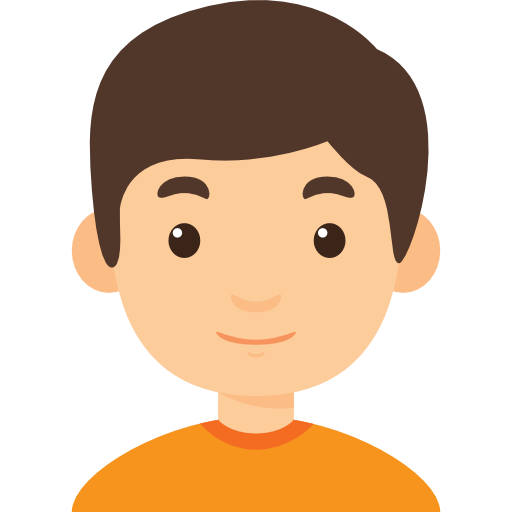
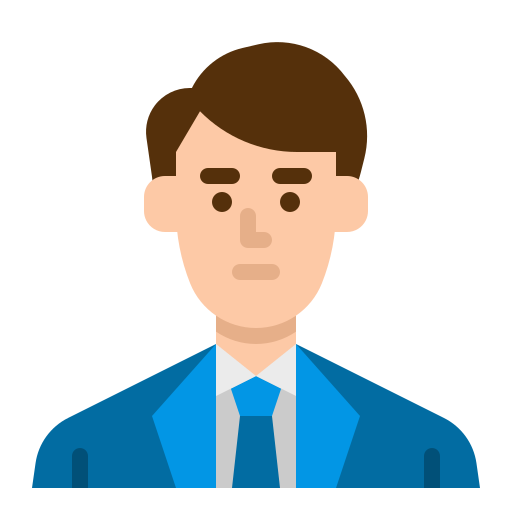
StartingProfileAndExpo-image-picker

diff --git a/src/navigation/AppNavigator.js b/src/navigation/AppNavigator.js
@@ -8,6 +8,7 @@ import {
     Favs,
     Cart
 } from '../screens';
+
 import SettingsScreen from '../screens/SettingsScreen';
 import StackNav from './StackNav';
 import { createBottomTabNavigator } from '@react-navigation/bottom-tabs';
@@ -46,59 +47,6 @@ const AppNavigator = () => {
                 }
             >
                 <Tab.Screen
-                    name='Main'
-                    component={StackNav}
-                    options={{
-                        tabBarIcon: ({ focused }) => {
-                            return (
-                                <View
-                                    style={{
-                                        alignItems: 'center',
-                                        justifyContent: 'center',
-                                    }}
-                                >
-                                    <MaterialIcons
-                                        name="local-restaurant"
-                                        size={30}
-                                        color={
-                                            focused ? '#F9813A' : '#E5E5E5'
-                                        }
-                                    />
-                                </View>
-                            )
-
-                        }
-                    }}
-                />
-
-                <Tab.Screen
-                    name='Cart'
-                    component={Cart}
-                    options={{
-                        tabBarIcon: ({ focused }) => {
-                            return (
-                                <View
-                                    style={{
-                                        alignItems: 'center',
-                                        justifyContent: 'center',
-                                    }}
-                                >
-                                    <Feather
-                                        name="shopping-bag"
-                                        size={26}
-                                        color={
-                                            focused ? '#F9813A' : '#E5E5E5'
-                                        }
-                                    />
-
-                                </View>
-                            )
-
-                        }
-                    }}
-                />
-
-                <Tab.Screen
                     name='Settings'
                     component={SettingsScreen}
                     options={{
@@ -113,6 +61,32 @@ const AppNavigator = () => {
                                     <MaterialIcons
                                         name="settings"
                                         size={26}
+                                        color={
+                                            focused ? '#F9813A' : '#E5E5E5'
+                                        }
+                                    />
+                                </View>
+                            )
+
+                        }
+                    }}
+                />
+
+                <Tab.Screen
+                    name='Main'
+                    component={StackNav}
+                    options={{
+                        tabBarIcon: ({ focused }) => {
+                            return (
+                                <View
+                                    style={{
+                                        alignItems: 'center',
+                                        justifyContent: 'center',
+                                    }}
+                                >
+                                    <MaterialIcons
+                                        name="local-restaurant"
+                                        size={30}
                                         color={
                                             focused ? '#F9813A' : '#E5E5E5'
                                         }
@@ -151,7 +125,6 @@ const AppNavigator = () => {
                 />
             </Tab.Navigator>
         </NavigationContainer>
-
     );
 };
 

diff --git a/src/screens/Profile.js b/src/screens/Profile.js
@@ -1,19 +1,126 @@
-import { StyleSheet, Text, View } from 'react-native'
-import React from 'react'
+import {
+    StyleSheet,
+    Text,
+    View,
+    Platform,
+    SafeAreaView,
+    TouchableOpacity,
+    ScrollView,
+    Image
+} from 'react-native'
 
-const Profile = () => {
+import React from 'react'
+import { MaterialIcons } from "@expo/vector-icons";
+import { useState } from 'react';
+import avatarsImg from '../constants/avatars';
+
+
+const Profile = ({ navigation }) => {
+
+    const [selectedImage, setSelectedImage] = useState(avatarsImg[4]);
+
+    const handleImageSelection = () => {
+        //let result = ImagePicker
+    }
+
+    const returnToHome = () => {
+        navigation.navigate('Restaurant')
+    };
+
     return (
-        <View>
-            <Text
-                style={{
-                    marginTop: '100%',
-                    marginLeft: '45.5%'
-                }}
-            >Profile</Text>
-        </View>
+        <SafeAreaView
+            style={styles.androidSafeArea}
+        >
+            <View
+                style={styles.headerContain}
+            >
+                <TouchableOpacity
+                    style={styles.backBtn}
+                    onPress={() => navigation.goBack(returnToHome())}
+                >
+                    <MaterialIcons
+                        name="keyboard-backspace"
+                        size={30}
+                        color="#000"
+                        style={{
+                            marginLeft: 10.5,
+                            marginTop: 10,
+                        }}
+                    />
+                </TouchableOpacity>
+                <Text style={styles.headerTitle}>Profile</Text>
+            </View>
+            <ScrollView>
+                <View
+                    style={{
+                        alignItems: 'center',
+                        marginVertical: 22
+                    }}
+                >
+                    <TouchableOpacity
+                        onPress={handleImageSelection}
+                    >
+                        <Image
+                            source={selectedImage}
+                            style={styles.avatarImage}
+                        />
+                        <View
+                           style= {styles.imageBtn}
+                        >
+                            <MaterialIcons
+                              name = 'photo-camera'
+                              size={32}
+                              color={'orange'}
+                            />
+                        </View>
+                    </TouchableOpacity>
+                </View>
+            </ScrollView>
+        </SafeAreaView>
     )
 }
 
 export default Profile
 
-const styles = StyleSheet.create({})
+const styles = StyleSheet.create({
+    androidSafeArea: {
+        flex: 1,
+        backgroundColor: "white",
+        paddingTop: Platform.OS == "android" ? 40 : 0,
+        haderButton: {
+            width: 50,
+            paddingLeft: 40,
+            justifyContent: "center",
+        },
+    },
+    headerContain: {
+        marginHorizontal: 12,
+        flexDirection: 'row',
+        justifyContent: 'center'
+    },
+    backBtn: {
+        marginTop: -7.5,
+        position: 'absolute',
+        left: 0
+    },
+    headerTitle: {
+        marginBottom: 12,
+        fontSize: 23,
+        fontWeight: 'bold',
+        justifyContent: 'center',
+        alignItems: 'center'
+    },
+    avatarImage: {
+        height: 170,
+        width: 170,
+        borderRadius: 85,
+        borderWidth: 2,
+        borderColor: 'orange'
+    },
+    imageBtn : {
+        position: 'absolute',
+        bottom: 0,
+        right: 10,
+        zIndex: 9999
+    }
+})

diff --git a/src/screens/SettingsScreen.js b/src/screens/SettingsScreen.js
@@ -63,7 +63,7 @@ const SettingsScreen = ({ navigation }) => {
   }
 
   const logout = () => {
-
+    console.log('Logout');
   }
 
   {/** Account Items */ }
@@ -83,11 +83,16 @@ const SettingsScreen = ({ navigation }) => {
     { icon: 'info-outline', text: 'Terms and Policies', action: navigateToTermsAndPolicies },
   ];
 
+
+  {/**list cache Items */ }
+
   const listCacheAndPhoneItems = [
     { icon: 'delete-outline', text: 'Free Space', action: navigateToFreeSpace },
     { icon: 'save-alt', text: 'Data Saver', action: navigateToDateServer },
 
   ];
+
+  {/** List Actions Item  */ }
 
   const listActionItems = [
 
@@ -96,7 +101,6 @@ const SettingsScreen = ({ navigation }) => {
     { icon: 'info-outline', text: 'Log Out', action: logout },
 
   ]
-
 
   {/**render header */ }
 
@@ -135,7 +139,9 @@ const SettingsScreen = ({ navigation }) => {
               backgroundColor: '#E5E5E5'
             }}
           >
+
             {/**render list Account Items */}
+
             {
               listAccountItems.map((item, index) => (
                 <React.Fragment
@@ -171,10 +177,12 @@ const SettingsScreen = ({ navigation }) => {
           <View
             style={{
               borderRadius: 12,
-              backgroundColor: '#E5E5E5'
+              backgroundColor:  '#E5E5E5'
             }}
           >
+
             {/**render list Support Items */}
+
             {
               listSupportItems.map((item, index) => (
                 <React.Fragment
@@ -214,6 +222,7 @@ const SettingsScreen = ({ navigation }) => {
             }}
           >
             {/**render list Cache Items */}
+
             {
               listCacheAndPhoneItems.map((item, index) => (
                 <React.Fragment
@@ -252,7 +261,9 @@ const SettingsScreen = ({ navigation }) => {
               backgroundColor: '#E5E5E5'
             }}
           >
+
             {/**render list Action Items */}
+
             {
               listActionItems.map((item, index) => (
                 <React.Fragment
@@ -304,10 +315,12 @@ const styles = StyleSheet.create({
     justifyContent: 'center'
   },
   backBtn: {
+    marginTop: -7.5,
     position: 'absolute',
     left: 0
   },
   headerTitle: {
+    marginBottom: 12,
     fontSize: 23,
     fontWeight: 'bold',
     justifyContent: 'center',

diff --git a/src/screens/EditProfile.js b/src/screens/EditProfile.js
@@ -3,12 +3,12 @@ import React from 'react'
 
 const EditProfile = () => {
     return (
-        <View>
-            <Text
-                style={
-                    styles.androidSafeArea
-                }
-            >
+        <View
+            style={
+                styles.androidSafeArea
+            }
+        >
+            <Text>
                 EditProfile
             </Text>
         </View>
@@ -22,10 +22,5 @@ const styles = StyleSheet.create({
         flex: 1,
         backgroundColor: "white",
         paddingTop: Platform.OS == "android" ? 40 : 0,
-        haderButton: {
-            width: 50,
-            paddingLeft: 40,
-            justifyContent: "center",
-        },
     },
 })

diff --git a/src/constants/avatars.js b/src/constants/avatars.js
@@ -1,0 +1,10 @@
+const avatarsImg = [
+    avatar1 = require('../assets/images/Avatar-1.png'),
+    avatar2 = require('../assets/images/Avatar-2.png'),
+    avatar3 = require('../assets/images/Avatar-3.png'),
+    avatar4 = require('../assets/images/Avatar-4.png'),
+    avatar5 = require('../assets/images/avatar-5.jpg'),
+]
+
+
+export default avatarsImg

diff --git a/src/databases/realtimeDatabase.js b/src/databases/realtimeDatabase.js
@@ -1,0 +1,1 @@
+export const baseUrl = 'https://console.firebase.google.com/project/myfoodapp-edab3/database/myfoodapp-edab3-default-rtdb/data/~2F?hl=es'
